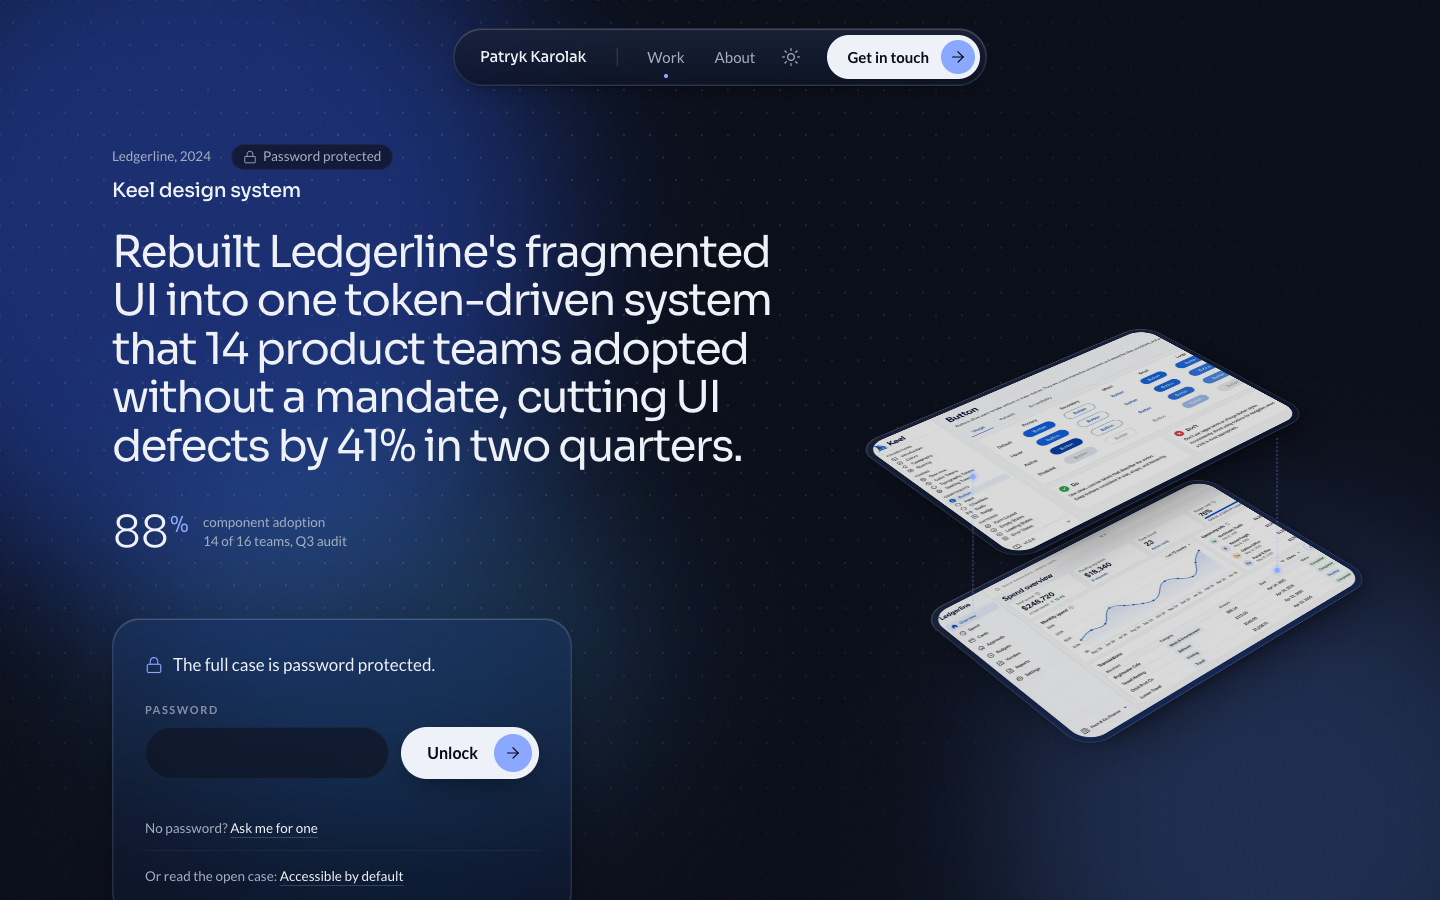
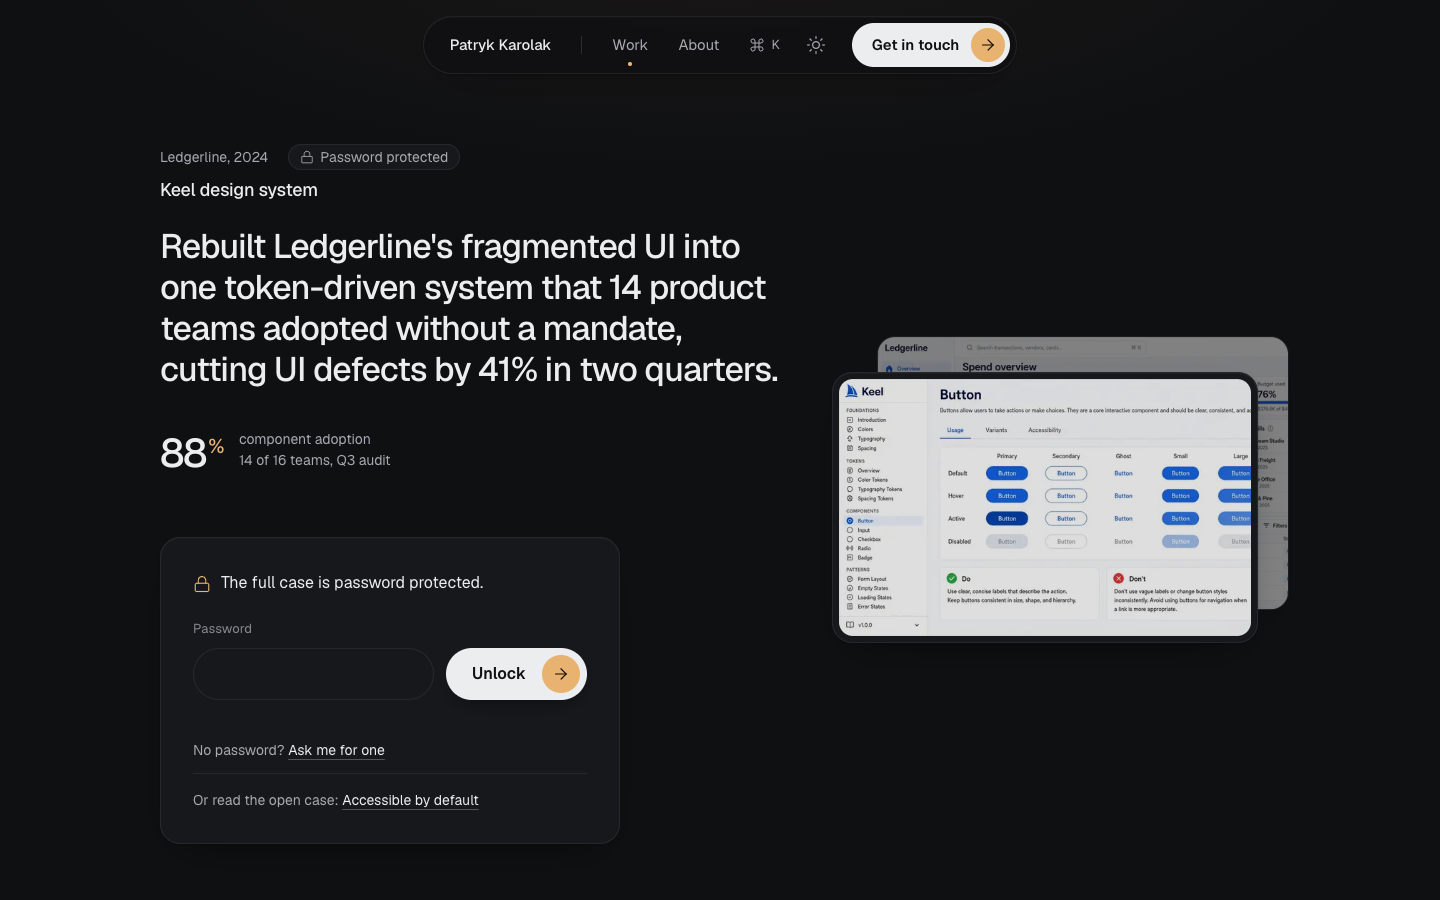
docs: block library architecture, content guide, round 8 approved, fresh shots

diff --git a/docs/architecture.md b/docs/architecture.md
@@ -15,14 +15,15 @@ Next.js 16 (App Router, Turbopack), React 19, Tailwind CSS v4, Motion, TypeScrip
 
 | Route | Rendering | Notes |
 | --- | --- | --- |
-| `/` | static | Hero, selected work (4-cell bento), approach. |
-| `/about` | static | Bio, portrait, experience, principles (long form). |
+| `/` | static | Blocks: intro hero, doors, statement, work timeline, showcase, writing, testimonials, letter. |
+| `/about` | static | Blocks: story with education, journey, values, outside of work, contact. |
+| `/kit` | static, `noindex` | Every block and primitive, filled from `content/kit.ts`. Not linked and not in the sitemap. |
 | `/work/[slug]` | static (SSG) | Full case. For protected cases the proxy serves `/locked/[slug]` instead until unlocked. |
 | `/locked/[slug]` | static (SSG), protected slugs only | Public teaser: title, bottom line, lead metric, cover, unlock form. |
 | `/work/[slug]/opengraph-image`, `/opengraph-image` | static | Built with `next/og`, colors and font from `@theme/meta`. Public fields only. |
 | `/sitemap.xml`, `/robots.txt` | static | Robots disallows `/locked/` and `/media/protected/`. |
 
-The root layout renders `Atmosphere`, `Nav`, the page, `Contact` (id `contact`, so every "Get in touch" link is `#contact`; its own action is "Email me" plus a copy button) and `Footer`. An inline script adds `js` to `<html>` before paint; without it, CSS shows every reveal immediately, so the site reads without JavaScript.
+The root layout renders `Atmosphere`, `Nav`, the page, `Footer`, the `CommandMenu` and the `Toaster` region. Each page renders its own contact block with id `contact` (Home: `LetterCard`; other pages: `Contact`), so every "Get in touch" link is `#contact`. Each page wraps its content in `PageTransition`, so links tagged `nav-forward` or `nav-back` slide, and a case cover morphs from the work list into the case header (`CoverMorph`, a shared `ViewTransition` name per slug). An inline script adds `js` to `<html>` before paint; without it, CSS shows every reveal immediately, so the site reads without JavaScript.
 
 ## Gating flow
 
@@ -39,13 +40,15 @@ flowchart LR
 
 ## Components
 
-- `components/ui/`: primitives. `Panel` and `Frame` (surfaces, take a `rise` index), `Button` (`PrimaryLink`, `PrimaryButton`, both with a `compact` size; the only primary style), `Chip` (static status only), `Icon`, `MetricsPanel`, `Emphasis` (`*word*` becomes the heading's one emphasised word).
+- `components/blocks/`: the block library ([ADR 0010](decisions/0010-block-library.md)). One block per file, each takes its content slice and returns `null` when empty. `HomeBlocks` and `AboutBlocks` are the page compositions; `lib/blocks.ts` hides doors whose target is empty.
+- `components/ui/`: primitives. `SmartLink` (anchor, external or app route with a transition type), `ArrowLink`, `Modal` (native `<dialog>`, sheet or palette placement, optional `layoutId` morph), `Panel` and `Frame` (surfaces, take a `rise` index), `Button` (`PrimaryLink`, `PrimaryButton`, both with a `compact` size; the only primary style), `Chip` (static status only), `Icon`, `MetricsPanel`, `Emphasis` (`*word*` becomes the heading's one emphasised word).
 - `components/motion/Rise.tsx`: the entry reveal, timings from `@theme/motion`. Clears its filter on completion so it never becomes a backdrop root.
 - `components/media/`: `Asset` renders any content asset by `kind`, `Picture` (light and dark sources, unoptimized for protected media), `Compare`, `Video`.
-- `components/site/`: `Nav` (pill nav, mobile sheet), `ThemeToggle`, `ThemeProvider` (`next-themes`, `data-theme`), `Contact`, `Footer`.
-- `components/home/`, `components/case/`: page sections.
+- `components/motion/PageTransition.tsx`: `PageTransition` and `CoverMorph`, built on React's `ViewTransition`; the animations live in the theme CSS.
+- `components/site/`: `Nav` (pill nav, command menu button, mobile sheet), `ThemeToggle`, `ThemeProvider` (`next-themes`, `data-theme`, default from `meta.defaultMode`, `MotionConfig reducedMotion="user"`), `CommandMenu` (Cmd K or Ctrl K, combobox and listbox), `Toaster` (`useToast`, polite live region), `CopyEmail`, `Contact`, `Footer`.
+- `components/case/`: case page sections. `components/kit/`: the primitives specimen for `/kit`.
 
 ## Scripts
 
 - `scripts/theme-check.mjs`, `theme-use.mjs`, `theme-new.mjs`: the design-language tooling.
-- `scripts/shots.mjs`: Playwright screenshots of every page, light and dark, desktop and mobile, including a real unlock. Fails on horizontal overflow.
+- `scripts/shots.mjs`: Playwright screenshots of every page (including `/kit`), light and dark, desktop and mobile, including a real unlock. Sets the theme through `localStorage`, since a design language may default to dark. Fails on horizontal overflow.

diff --git a/docs/content-guide.md b/docs/content-guide.md
@@ -4,11 +4,30 @@ Everything a visitor reads lives in `content/`. The build validates it against [
 
 ## Files
 
-- `content/site.ts`: name, hero, approach principles, About, links, contact copy, footnote.
+- `content/site.ts`: name, the content of every block (hero, doors, statement, work intro, showcase, writing, testimonials, letter, About story, education, journey, values, outside of work), links, contact copy, footnote.
+- `content/kit.ts`: fixtures for `/kit`, the live content plus the blocks the site leaves empty. Only `/kit` reads it.
 - `content/projects/<slug>.ts`: one file per case.
-- `content/projects/index.ts`: the order. The first case is the large lead cell on the home page; the fourth is the wide cell.
+- `content/projects/index.ts`: the order. The work timeline groups cases by `year`, newest first.
 
 Wrap one word of a heading in `*asterisks*` to give it the single emphasis (for example `"I design the *systems* product teams build on."`). Use `\u00a0` (a non-breaking space) to keep short phrases together, like `0\u00a0to\u00a01`.
+
+## Blocks
+
+Every block is optional in practice: leave its field out, or its `items` empty, and the block renders nothing. A door is hidden when its target block is empty.
+
+| Field | Budget | Write it as |
+| --- | --- | --- |
+| `hero` | greeting 5, tagline 6, intro 32 words, headline 12 | `intro` mixes plain text and `{ pill, href }` company pills, read as one sentence. Spaces are added between parts, except before punctuation. `headline` is for metadata and OG images. |
+| `doors` | up to 3, title 10 words | Each points at `work`, `showcase`, `writing`, `about` or `contact`. |
+| `statement` | 1 to 2 lines of 8 words, text 32 | The second line renders in Ink 2. |
+| `showcase` | up to 6 items, text 14, detail 60 | Cards that open a sheet. Images are public. |
+| `writing` | up to 6, title 12 | `date` as `YYYY-MM` or `YYYY-MM-DD`, `href` a full URL. |
+| `testimonials` | up to 4, quote 45 words | Real people only on a real site. |
+| `letter` | 1 to 3 paragraphs of 34 words | Closes Home and carries the contact actions. |
+| `about.story` | 1 to 3 paragraphs of 70 words | The first reads as the lede. |
+| `journey.roles` | up to 8, summary 18, 2 points of 16 | Omit `to` while the role is current. `cases` link up to 2 case slugs. |
+| `values` | up to 4, text 30 | `evidence` is a case slug. |
+| `outside` | up to 3, text 40 | Life outside work, briefly. |
 
 ## Writing a case
 

diff --git a/docs/theming.md b/docs/theming.md
@@ -43,11 +43,11 @@ The required files and exports are listed in [themes/contract.json](../themes/co
 
 | File | Owns |
 | --- | --- |
-| `theme.css` | Every color, shadow, radius, spacing, easing and duration token, for light and dark (`[data-theme="dark"]`). The contract utilities: `surface`, `surface-deep`, `surface-strong`, `surface-sheet`, `media`, `core`, `wash`, `divider`, the `type-*` scale, `focus-ring`, `link`. Anything private (Blueprint's orbs, dot lattice, grain, plate float). |
+| `theme.css` | Every color, shadow, radius, spacing, easing and duration token, for light and dark (`[data-theme="dark"]`). The contract utilities: `surface`, `surface-deep`, `surface-strong`, `surface-sheet`, `media`, `core`, `wash`, `divider`, the `type-*` scale, `focus-ring`, `link`, and for the blocks `card`, `inline-pill`, `type-quote`, `press`, `sheet`. Route transitions: `::view-transition-*` rules for `site-header`, `.morph`, `.nav-forward` and `.nav-back`. Anything private (Blueprint's orbs, dot lattice, grain, plate float). |
 | `fonts.ts` | The fonts, via `next/font`. Must set `--theme-font-display` and `--theme-font-body`. |
 | `motion.ts` | JS motion values: easing, spring, the entry reveal ("rise"), hover and menu timing. Used by `<Rise>`, the nav and the menu. |
 | `icons.ts` | The icon library, mapped onto the fixed icon names in `contract.ts`, plus stroke width and sizes. Swap Lucide for anything by changing this one file. |
-| `meta.ts` | Plain color values for places that cannot read CSS variables: browser `theme-color` and OG images, plus the OG font family. |
+| `meta.ts` | Plain color values for places that cannot read CSS variables: browser `theme-color` and OG images, plus the OG font family. `defaultMode` (`light`, `dark` or `system`) sets the mode a first-time visitor sees. |
 | `Atmosphere.tsx` | The fixed background layer. Blueprint: drifting orbs, dot lattice, grain. Another theme can return a flat color or nothing. |
 | `Signature.tsx` | The hero and case-header visual for `isometric` assets. Blueprint: floating glass plates. Another theme might show a single flat frame. |
 | `Diagram.tsx` | How `diagram` assets are drawn. Blueprint: isometric stacked layers. |

diff --git a/docs/plan.md b/docs/plan.md
@@ -154,6 +154,12 @@ Each placeholder case shows a different kind of senior signal:
 
 ## Page compositions
 
+> **Superseded for Home and About (round 8, [ADR 0010](decisions/0010-block-library.md)).** Home and About are now composed from the block library in `components/blocks/`:
+> - **Home:** IntroHero, DoorCards, Statement, WorkTimeline, Showcase, WritingList, Testimonials, then LetterCard (id `contact`), or Contact when there is no letter.
+> - **About:** StoryHeader with Education, Journey, Values, OutsideWork, Contact.
+> - Every block renders nothing when its content is empty; `/kit` shows all of them filled from `content/kit.ts`. App primitives: Modal (sheet and palette), Toaster, CommandMenu (Cmd K), `press`, and view transitions between routes with a cover morph into the case header.
+> - The case, locked and 404 compositions below still apply. The original Home and About specs are kept for history.
+
 ### Home (4 sections, 4 different layout families)
 1. **Hero.** At most 4 text elements: name, positioning line (at most 2 lines), one supporting sentence (at most 20 words), "View work." Fits the viewport, top padding at most `pt-24`.
 2. **Selected work.** Asymmetric layout with exactly 4 cells: one lead case plus three companions. Each cell shows the cover, title and `bottomLine`. The lead case also shows its strongest metric. Hover reveals the arrow and a gentle media scale.

diff --git a/design/directions/README.md b/design/directions/README.md
@@ -9,6 +9,6 @@ Phase 0 concept rounds. Each round has its own README with the images and notes.
 - [Round 5](round-5/README.md): After dark, Race kit and Topo, each drawn from the designer's own world. Rejected: too much hobby, too little work.
 - [Round 6](round-6/README.md): story first, work first. A (Margin notes, light) and B (Studio, dark). Superseded by round 7.
 - [Round 7](round-7/README.md): Tempo, the round 4 structure in a sport-app language, with kudos and app interactions. Superseded by round 8.
-- [Round 8](round-8/README.md): a block library modelled on benshih.design's structure, styled as Dusk (subtle dark). Proposed.
+- [Round 8](round-8/README.md): a block library modelled on benshih.design's structure, styled as Dusk (subtle dark). Approved (Geist, pale amber) and built.
 - **Locked:** [../../DESIGN.md](../../DESIGN.md).
 - Font candidates: [../fonts/README.md](../fonts/README.md).

diff --git a/design/directions/round-8/README.md b/design/directions/round-8/README.md
@@ -2,7 +2,7 @@
 
 A reusable block library modelled on the structure of benshih.design, with original content, styled as Dusk: a subtle dark design language that defaults to dark and keeps the light toggle. The personal touch comes later; there are no kudos.
 
-**Status:** proposed, awaiting a pick of type and accent.
+**Status:** approved with Geist and pale amber `#E8B270`. Built as `themes/dusk/` ([ADR 0011](../../../docs/decisions/0011-dusk-theme.md)) and `components/blocks/` ([ADR 0010](../../../docs/decisions/0010-block-library.md)).
 
 - **Tokens:** canvas `#0F1012`, surfaces `#16181B`, hairline `#25282C`, ink `#ECEDEE` / `#A6A9AF` / `#7D8188`, soft 16px radii, no glow, no glass.
 - **Accent candidates:** pale amber `#E8B270` (images 1, 3, 4) and mist blue `#9DB7E0` (image 2).
